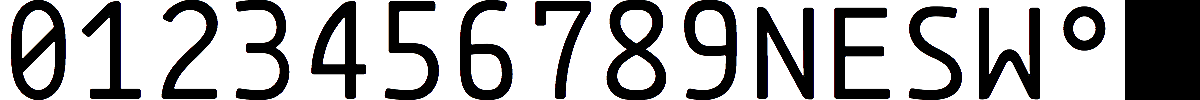
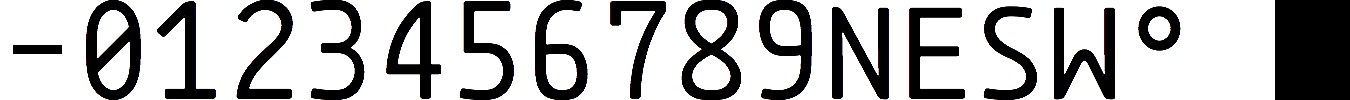
continued construction of the HUD

diff --git a/flightsim/hudrender.cpp b/flightsim/hudrender.cpp
@@ -12,8 +12,8 @@ static GLuint tex;
 
 #define min(x, y) ((x) < (y) ? (x) : (y))
 static void setColors(std::vector<GLfloat> &vertices, char c) {
-	const char C[] = { '0', '1', '2', '3', '4', '5', '6', '7', '8', '9',
-		'N', 'E', 'S', 'W', 'D', 'F' };
+	const char C[] = { '-', '0', '1', '2', '3', '4', '5', '6', '7', '8', '9',
+		'N', 'E', 'S', 'W', 'D', 'C', 'F' };
 	int num = sizeof(C)/sizeof(C[0]);
 	float topleft = 0.0f;
 	float width = 1.f / num;
@@ -62,6 +62,19 @@ static int updateHudVertices(vec3 pos, quat facing, vec3 vel) {
 	setColors(vertices, c);\
 } while(0)
 
+#define digit(tl, r, d, c) do {\
+	vertex(tl); \
+	vertex(tl + r); \
+	vertex(tl + r + d); \
+	vertex(tl + d); \
+	colors(c); \
+	quad(); \
+} while(0)
+
+#define rect(tl, r, d, c) do {\
+	digit(tl, r, d, c);\
+} while(0)
+
 	std::vector<GLfloat> vertices;
 	std::vector<GLushort> indices;
 
@@ -71,7 +84,9 @@ static int updateHudVertices(vec3 pos, quat facing, vec3 vel) {
 	float pitcha = atan2(Z.y, sqrt(Z.x * Z.x + Z.z * Z.z));
 	float rolla = atan2(X.y, sqrt(X.x * X.x + X.z * X.z));
 
-	quat roll = angleAxis(rolla, vec3(0, 0, 1));
+	std::cout << pitcha << " " << rolla << std::endl;
+
+	quat roll = normalize(quat(facing.w, 0, 0, facing.z));//angleAxis(rolla, vec3(0, 0, 1));
 	vec3 right = roll * vec3(1, 0, 0);
 	vec3 rperp = roll * vec3(0, 1, 0);
 
@@ -81,11 +96,21 @@ static int updateHudVertices(vec3 pos, quat facing, vec3 vel) {
 
 	vec3 vec = forw * 5.f;
 
+	float width = 0.75f;
+
+	vec3 mid = vec3(0, 0, 5.f);
+
+	/* draw a cross hair */
+	rect(-0.1f * right + 0.01 * rperp + mid, 0.2 * right,
+		-0.02 * rperp, 'F');
+	rect(-0.01f * , vec3(0.02f, 0.f, 0.f),
+		vec3(0.f, 0.1f, 0.f), 'F');
+
 	for(int i = 0, a = 0; i < 36; i++, a += 10) {
-		vec3 v1 = vec + rperp * -0.01f - right / 2.f;
-		vec3 v4 = vec + rperp * 0.01f  - right / 2.f;
-		vec3 v2 = v1 + right;
-		vec3 v3 = v4 + right;
+		vec3 v1 = vec + rperp * -0.01f - right / 2.f * width;
+		vec3 v4 = vec + rperp * 0.01f  - right / 2.f * width;
+		vec3 v2 = v1 + right * width;
+		vec3 v3 = v4 + right * width;
 
 		vertex(v1);
 		vertex(v2);
@@ -94,7 +119,21 @@ static int updateHudVertices(vec3 pos, quat facing, vec3 vel) {
 		colors('F');
 		quad();
 
-		quat rot = angleAxis((float)M_PI/18, right);
+		vec3 dr = 0.075f * right;
+		vec3 dd = -0.1f * rperp;
+		vec3 L = (v1 + v4) / 2.f;
+		vec3 R = (v3 + v2) / 2.f;
+		if(a / 100) {
+			digit(L - dr * 3.f - dd * 0.5f, dr, dd, a / 100 + '0');
+			digit(R - dd * 0.5f, dr, dd, a / 100 + '0');
+			R += dr;
+		}
+		digit(L - dr * 2.f - dd * 0.5f, dr, dd, (a % 100) / 10 + '0');
+		digit(L - dr * 1.f - dd * 0.5f, dr, dd, '0');
+		digit(R + dr * 0.f - dd * 0.5f, dr, dd, (a % 100) / 10 + '0');
+		digit(R + dr * 1.f - dd * 0.5f, dr, dd, '0');
+
+		quat rot = angleAxis(-(float)M_PI/18, right);
 		vec = rot * vec;
 	}
 
